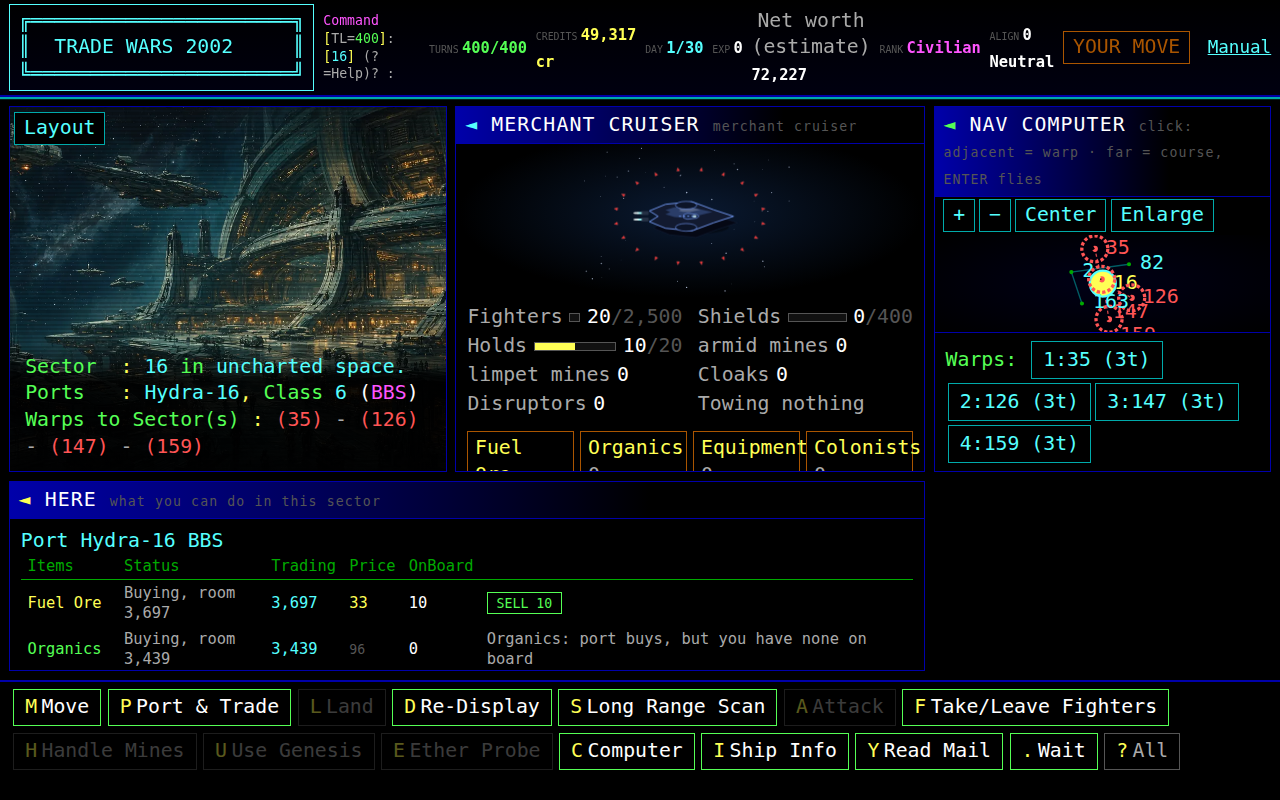
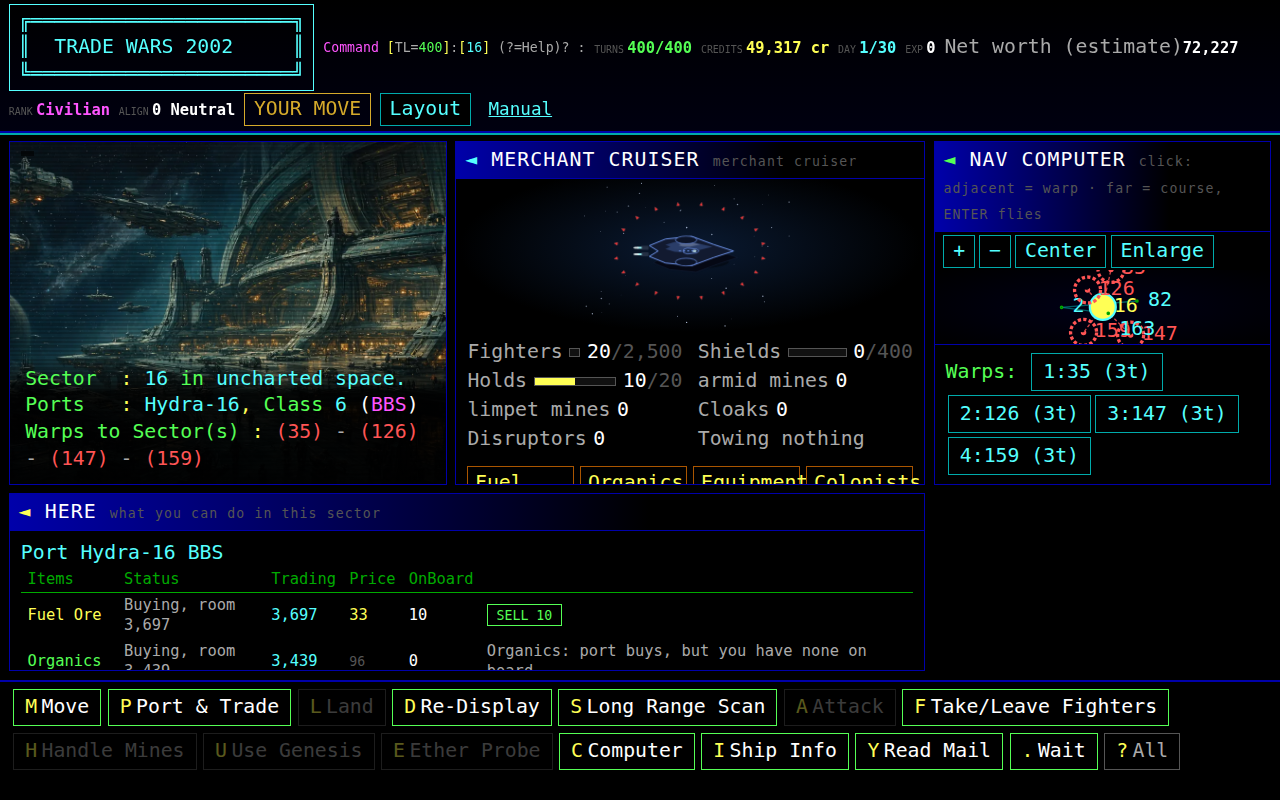
Keep the Layout button in the header so hiding Viewport cannot lock the player out.

Changed region(s): [[0.0, 0.0, 1.0, 0.8438], [0.3125, 0.8125, 0.3438, 0.8438], [0.0, 0.375, 0.0312, 0.4062]]

diff --git a/web/redesign.css b/web/redesign.css
@@ -138,7 +138,9 @@ body.busy{cursor:progress}body.busy #keys,body.busy #here{opacity:.6}
 #map circle.hit{fill:transparent;stroke:none;pointer-events:all}
 #nav.enlarged{position:fixed;inset:0;z-index:30;width:100%;height:100%;max-height:none;background:#000}
 #nav.enlarged #map{width:100%;height:auto;flex:1 1 auto}
-#layoutOpen{position:absolute;top:4px;left:4px;z-index:6;font:inherit;background:#000;color:var(--c);border:1px solid var(--dc);padding:2px 8px;cursor:pointer}
+#layoutOpen{flex:0 0 auto;font:inherit;background:#000;color:var(--c);border:1px solid var(--dc);padding:2px 8px;cursor:pointer;white-space:nowrap}
+@media (min-width:1367px) and (max-width:1680px){#cmdline{gap:6px 10px}}
+body.deck-tuned #cmdline{flex-wrap:wrap}
 #layoutMenu{position:fixed;z-index:40;top:10%;left:22%;right:22%;max-height:76%;overflow:auto;background:#000;border:2px double var(--c);padding:12px 16px;box-shadow:0 0 0 4px #0000aa}
 #layoutMenu .layout-head{display:flex;justify-content:space-between;align-items:center;color:var(--y);margin-bottom:8px}
 #layoutMenu button{font:inherit;background:#000;color:var(--c);border:1px solid var(--dc);padding:2px 8px;cursor:pointer}

diff --git a/web/redesign.html b/web/redesign.html
@@ -20,6 +20,7 @@
   <span class="stat hide-s"><i>Rank</i><b class="m" id="rank">-</b></span>
   <span class="stat hide-s"><i>Align</i><b id="align">-</b></span>
   <span id="waitchip" class="chip">YOUR MOVE</span>
+  <button type="button" id="layoutOpen" data-testid="layout-open">Layout</button>
   <a id="manualLink" class="manual-link" href="/manual" target="_blank" rel="noopener">Manual</a>
   <span class="sign-in">
     <label>Seat <select id="seatSelect" data-testid="seat"><option>P2</option><option>P3</option><option>P4</option><option>P5</option><option>P1</option></select></label>
@@ -31,7 +32,6 @@
 
 <main id="deck">
   <section id="viewport" class="panel" data-testid="viewport" aria-label="Viewport" data-hull="hauler" data-mode="live">
-    <button type="button" id="layoutOpen" data-testid="layout-open">Layout</button>
     <div id="vpScreen" role="img" aria-label="View from the cockpit">
       <canvas id="vpStars" class="vp-stars" data-testid="viewport-stars" aria-hidden="true"></canvas>
       <img id="sceneStill" data-testid="scene-still" alt="" hidden />

diff --git a/tests/test_cockpit_dashboard_custom_v1.py b/tests/test_cockpit_dashboard_custom_v1.py
@@ -128,6 +128,15 @@ def test_dashboard_saves_reloads_and_resets(tmp_path: Path, monkeypatch) -> None
             phone.locator("[data-testid=layout-reset]").click()
             _ready(phone, "default")
             assert phone.locator("#term").is_visible()
+            phone.locator("[data-testid=show-viewport]").uncheck()
+            phone.wait_for_function("() => document.getElementById('viewport').hidden")
+            phone.locator("[data-testid=layout-close]").click()
+            assert phone.locator("#viewport").is_hidden()
+            assert phone.locator("[data-testid=layout-open]").is_visible()
+            phone.locator("[data-testid=layout-open]").click()
+            phone.locator("[data-testid=layout-reset]").click()
+            _ready(phone, "default")
+            assert phone.locator("#viewport").is_visible()
 
             wide.locator("[data-testid=layout-open]").click()
             wide.locator("[data-testid=up-ship]").click()
@@ -204,5 +213,34 @@ def test_dashboard_saves_reloads_and_resets(tmp_path: Path, monkeypatch) -> None
             assert wide.evaluate("() => localStorage.getItem('tw2k-deck-v1:lobby:P2')") is None
             assert wide.locator("#shipSvg [data-testid=ship-body]").count() == 1
             assert wide.locator("#term").is_visible()
+            wide.locator("[data-testid=show-viewport]").uncheck()
+            wide.wait_for_function("() => document.getElementById('viewport').hidden")
+            wide.locator("[data-testid=layout-close]").click()
+            assert wide.locator("#viewport").is_hidden()
+            opener = wide.locator("[data-testid=layout-open]")
+            assert opener.is_visible()
+            assert wide.evaluate(
+                """() => {
+                  const button = document.getElementById('layoutOpen');
+                  const header = document.getElementById('cmdline');
+                  const manual = document.getElementById('manualLink').getBoundingClientRect();
+                  const box = button.getBoundingClientRect();
+                  const head = header.getBoundingClientRect();
+                  const clear = box.right <= manual.left + 1 || manual.right <= box.left + 1
+                    || box.bottom <= manual.top + 1 || manual.bottom <= box.top + 1;
+                  return button.closest('#viewport') === null
+                    && button.closest('#cmdline') === header
+                    && box.width > 20
+                    && box.top >= head.top - 1
+                    && box.bottom <= head.bottom + 1
+                    && clear;
+                }"""
+            )
+            opener.click()
+            wide.locator("[data-testid=layout-reset]").click()
+            _ready(wide, "default")
+            assert wide.locator("#viewport").is_visible()
+            assert wide.locator("#term").is_visible()
+            _close(fresh, _boxes(wide))
         finally:
             browser.close()

diff --git a/docs/plans/cockpit-dashboard-custom-v1.md b/docs/plans/cockpit-dashboard-custom-v1.md
@@ -16,6 +16,8 @@ With nothing saved, the deck is the stylesheet grid: `view nav ship` on the firs
 
 The value is `{v:1, order, hidden, cols, rows, font, zoom}`. `cols` and `rows` are track weights, or null when they are still the default. `font` is null or a pixel size from 12 to 24. `zoom` is 1, or 0.8–1.5 in steps of 0.1. Reset deletes the key and clears the inline styles.
 
-The Layout menu (button on the header, does not take a flex slot) lists the five panels: Viewport, Nav computer, Ship, Here, Subspace log. Each row can be hidden, dragged, or moved with Up and Down. Those moves swap grid slots on a wide screen. Font and zoom are in the same menu. A focused splitter moves with the arrow keys; mouse and touch drag it.
+The Layout button sits in the cockpit header, next to Manual, outside every panel. Hiding Viewport, or hiding every panel the menu will allow, still leaves that button on screen. Reset is inside the menu the button opens. From 1367px to 1680px the header gaps draw in so the button stays on the first row and the header stays the same height. A saved font may wrap the header onto a second line; with nothing saved, the header height is unchanged and the deck boxes stay put.
+
+The menu lists the five panels: Viewport, Nav computer, Ship, Here, Subspace log. Each row can be hidden, dragged, or moved with Up and Down. Those moves swap grid slots on a wide screen. Font and zoom are in the same menu. A focused splitter moves with the arrow keys; mouse and touch drag it.
 
 The ship picture and the warp scene stay inside their panels. Hiding Ship or Viewport hides that panel; Reset brings it back.
